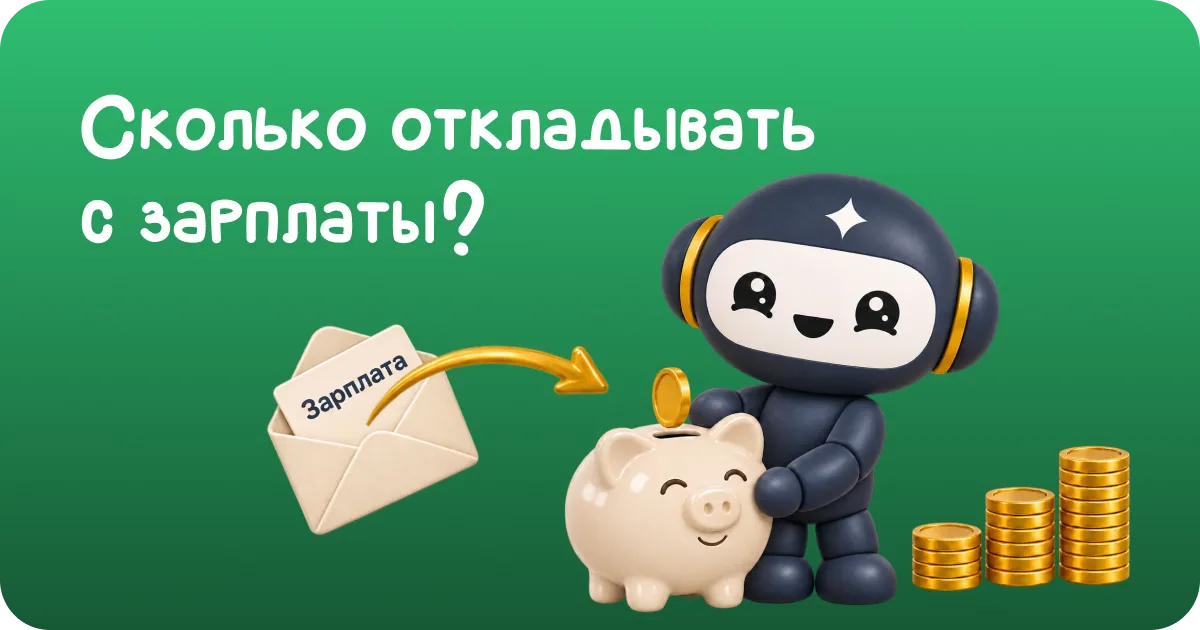
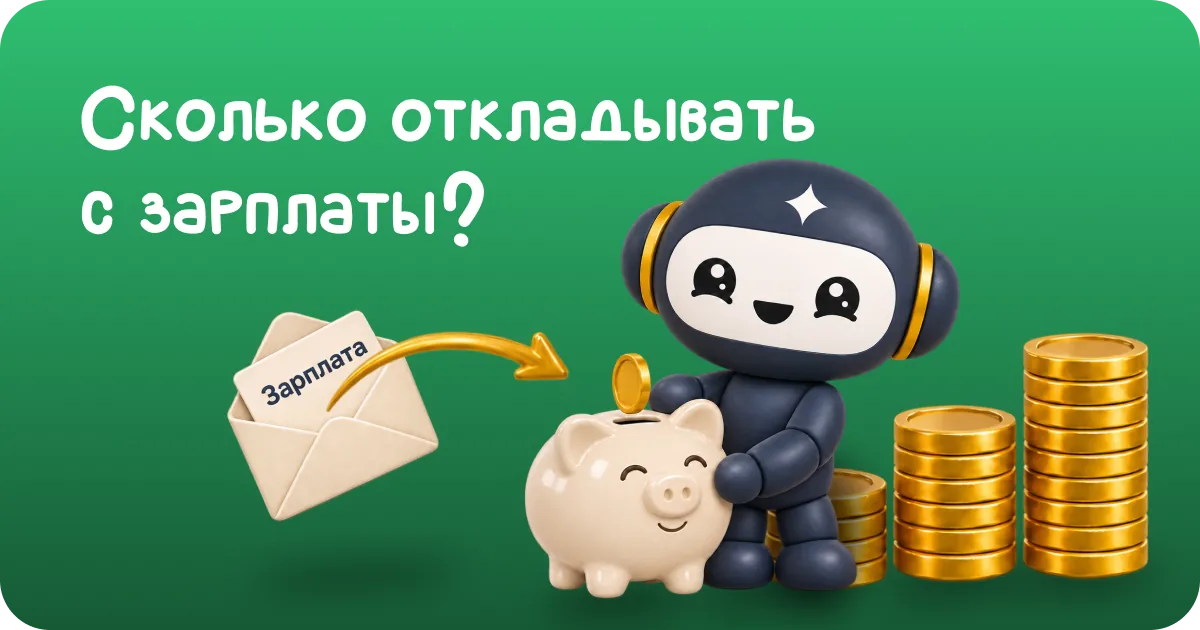
p66: новая обложка статьи №3

Changed region(s): [[0.0617, 0.1206, 0.9558, 0.9952], [0.0617, 0.2714, 0.4008, 0.4222]]

diff --git a/public/blog/skolko-otkladyvat-s-zarplaty/index.html b/public/blog/skolko-otkladyvat-s-zarplaty/index.html
@@ -16,7 +16,7 @@
   <meta property="og:image" content="https://finnikbot.ru/images/blog/og-blog-3.jpg">
   <meta property="og:image:width" content="1200">
   <meta property="og:image:height" content="630">
-  <meta property="og:image:alt" content="Финник с копилкой-свинкой: стрелка ведет от конверта «Зарплата» к копилке, рядом растут стопки монет">
+  <meta property="og:image:alt" content="Финник с копилкой-свинкой: стрелка ведет от конверта «Зарплата» к копилке, рядом большие стопки монет">
   <meta property="article:published_time" content="2026-11-06">
   <meta name="twitter:card" content="summary_large_image">
   <link rel="icon" href="/favicon.ico" sizes="48x48">
@@ -192,7 +192,7 @@
           <span>Чтение: 13 минут</span>
         </div>
       </div>
-      <figure class="ph"><img src="/images/blog/blog-3-cover.webp" width="1200" height="630" alt="Финник с копилкой-свинкой: стрелка ведет от конверта «Зарплата» к копилке, рядом растут стопки монет" fetchpriority="high"></figure>
+      <figure class="ph"><img src="/images/blog/blog-3-cover.webp" width="1200" height="630" alt="Финник с копилкой-свинкой: стрелка ведет от конверта «Зарплата» к копилке, рядом большие стопки монет" fetchpriority="high"></figure>
     </header>
 
     <div class="layout">
